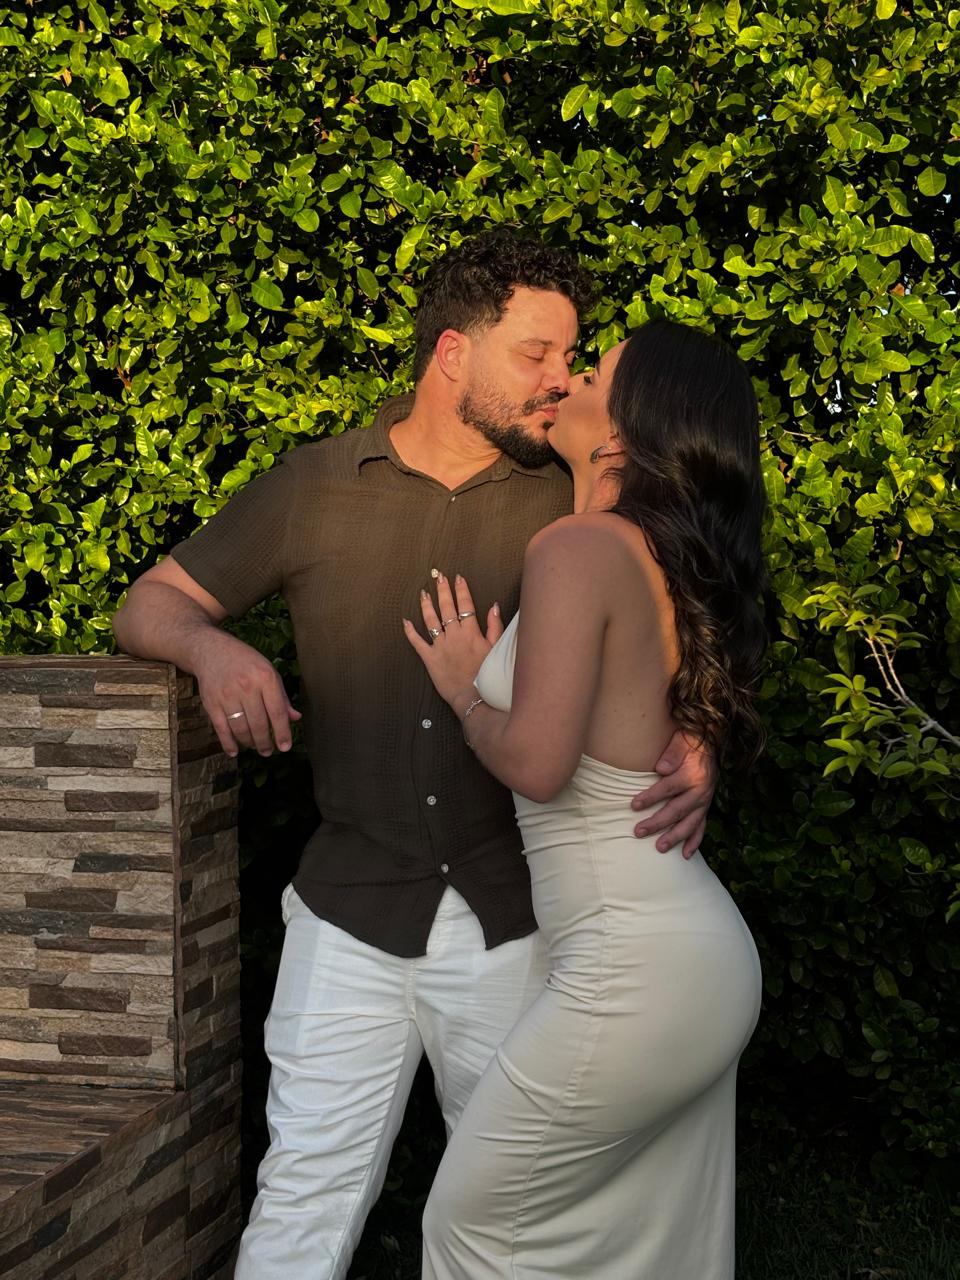
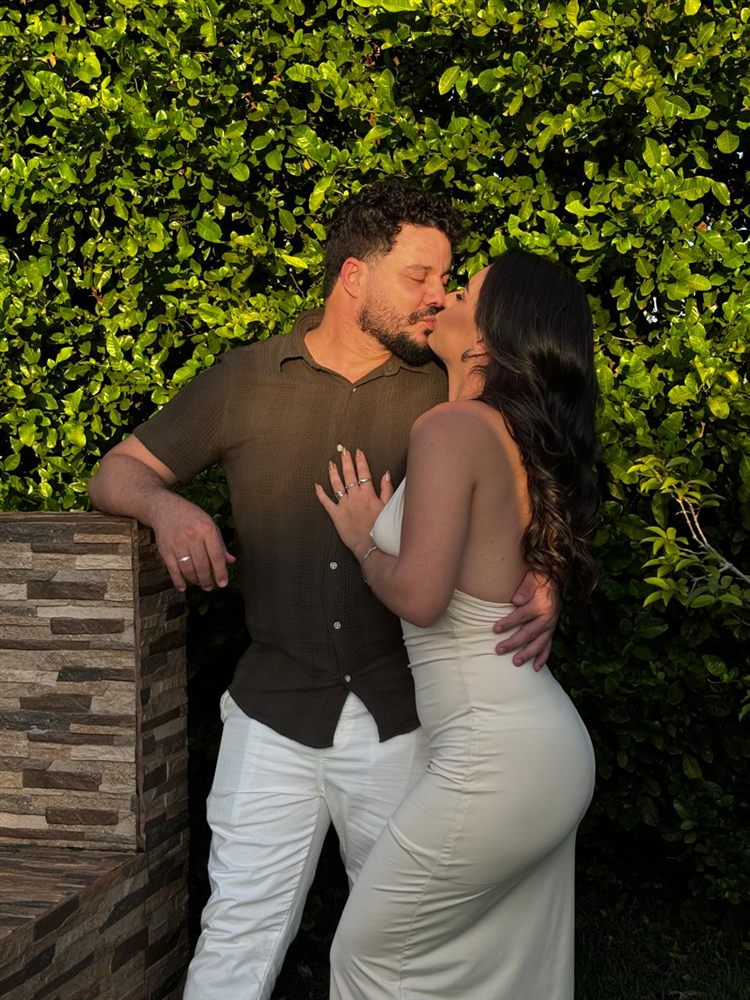
Performance: fotos otimizadas, lazy loading, preload none, nginx com gzip e cache
- Fotos reduzidas para max 1000px (~2x menores; pablo.jpg 391KB -> 43KB)
- 26 imagens com loading=lazy (so a foto do portao carrega de inicio)
- Audio preload=none: as musicas (14MB) so baixam quando tocam
- nginx.conf: gzip + cache de 30 dias para fotos/musicas

diff --git a/index.html b/index.html
@@ -259,7 +259,7 @@
 <div class="nebulosa neb2"></div>
 
 <!-- músicas: as que o Pablo criou contando a história (18/04/2026) -->
-<audio id="musica" src="musica/nossa-musica.mp3" preload="auto"></audio>
+<audio id="musica" src="musica/nossa-musica.mp3" preload="none"></audio>
 <div class="disco-dica" id="discoDica">toca as nossas músicas 🎵</div>
 <div class="nome-faixa" id="nomeFaixa"></div>
 <div class="btn-pular" id="btnPular" title="próxima música">⏭</div>
@@ -322,7 +322,7 @@
       <div class="arcano reveal">
         <div class="carta-tarot">
           <div class="num-romano">Arcano 0 · O Louco</div>
-          <img class="mini-arcano" src="fotos/arcanos/00-louco.jpg" alt="O Louco" title="O Louco — o salto de fé, o começo de toda jornada">
+          <img loading="lazy" decoding="async" class="mini-arcano"src="fotos/arcanos/00-louco.jpg" alt="O Louco" title="O Louco — o salto de fé, o começo de toda jornada">
           <h3>O Encontro</h3>
           <div class="data">Setembro de 2025 · um casamento</div>
           <p>Entre brindes e música, no meio da festa de outras pessoas, o destino resolveu escrever a nossa. Um olhar atravessou o salão — e alguma coisa, em silêncio, já sabia.</p>
@@ -333,7 +333,7 @@
       <div class="arcano reveal">
         <div class="carta-tarot">
           <div class="num-romano">Arcano I · O Mago</div>
-          <img class="mini-arcano" src="fotos/arcanos/01-mago.jpg" alt="O Mago" title="O Mago — a palavra que cria, o primeiro movimento">
+          <img loading="lazy" decoding="async" class="mini-arcano"src="fotos/arcanos/01-mago.jpg" alt="O Mago" title="O Mago — a palavra que cria, o primeiro movimento">
           <h3>A Primeira Mensagem</h3>
           <div class="data">28.09.2025 · 09:24</div>
           <p>Tudo começou do jeito mais você possível: um bom dia cheio de energia e uma cobrança de mergulho. 😂</p>
@@ -345,19 +345,19 @@
       <div class="arcano reveal">
         <div class="carta-tarot">
           <div class="num-romano">Arcano II · A Sacerdotisa</div>
-          <img class="mini-arcano" src="fotos/arcanos/02-sacerdotisa.jpg" alt="A Sacerdotisa" title="A Sacerdotisa — a intuição, a guardiã do invisível">
+          <img loading="lazy" decoding="async" class="mini-arcano"src="fotos/arcanos/02-sacerdotisa.jpg" alt="A Sacerdotisa" title="A Sacerdotisa — a intuição, a guardiã do invisível">
           <h3>A Leitura</h3>
           <div class="data">01.10.2025 · o tarô que mudou tudo</div>
           <p>Eu fui pedir uma consulta de tarô… e a taróloga levou meu coração de brinde. Você ainda quis a sinastria astrológica — como se o universo já não tivesse deixado tudo óbvio.</p>
           <div class="balao"><span class="quem">Jhulia</span>Quero seus dados pro Tarot. Mas também quero ver a sinastria astrológica rs 🔮<span class="hora">11:26</span></div>
-          <img class="foto" src="fotos/bruxos.jpg" alt="Pablo e Jhulia de bruxos" style="object-position:center 42%">
+          <img loading="lazy" decoding="async" class="foto"src="fotos/bruxos.jpg" alt="Pablo e Jhulia de bruxos" style="object-position:center 42%">
         </div>
       </div>
 
       <div class="arcano reveal">
         <div class="carta-tarot">
           <div class="num-romano">Arcano XVII · A Estrela</div>
-          <img class="mini-arcano" src="fotos/arcanos/17-estrela.jpg" alt="A Estrela" title="A Estrela — a esperança, o sonho que guia">
+          <img loading="lazy" decoding="async" class="mini-arcano"src="fotos/arcanos/17-estrela.jpg" alt="A Estrela" title="A Estrela — a esperança, o sonho que guia">
           <h3>O Beijo Imaginado</h3>
           <div class="data">02.10.2025</div>
           <p>Antes de qualquer beijo existir, ele já vivia na imaginação — e olha que nem a imaginação chegou perto do que foi de verdade.</p>
@@ -369,24 +369,24 @@
       <div class="arcano reveal">
         <div class="carta-tarot">
           <div class="num-romano">Arcano III · A Imperatriz</div>
-          <img class="mini-arcano" src="fotos/arcanos/03-imperatriz.jpg" alt="A Imperatriz" title="A Imperatriz — o prazer, a entrega, a abundância">
+          <img loading="lazy" decoding="async" class="mini-arcano"src="fotos/arcanos/03-imperatriz.jpg" alt="A Imperatriz" title="A Imperatriz — o prazer, a entrega, a abundância">
           <h3>A Magia</h3>
           <div class="data">19.10.2025 · a primeira vez juntos</div>
           <p>E quando finalmente aconteceu, foi você quem encontrou as palavras:</p>
           <div class="balao"><span class="quem">Jhulia</span>Ter você comigo aqui foi muito mais do que eu imaginei! Cada detalhe, cada sorriso, cada gesto seu… tudo foi mágico. Já me sinto sua… e quero que seja assim. ❤🔥<span class="hora">20:10</span></div>
-          <img class="foto" src="fotos/beijo.jpg" alt="Pablo e Jhulia se beijando" style="object-position:center 38%">
+          <img loading="lazy" decoding="async" class="foto"src="fotos/beijo.jpg" alt="Pablo e Jhulia se beijando" style="object-position:center 38%">
         </div>
       </div>
 
       <div class="arcano reveal">
         <div class="carta-tarot">
           <div class="num-romano">Arcano XIV · A Temperança</div>
-          <img class="mini-arcano" src="fotos/arcanos/14-temperanca.jpg" alt="A Temperança" title="A Temperança — o anjo da cura, o equilíbrio depois da tempestade">
+          <img loading="lazy" decoding="async" class="mini-arcano"src="fotos/arcanos/14-temperanca.jpg" alt="A Temperança" title="A Temperança — o anjo da cura, o equilíbrio depois da tempestade">
           <h3>O Renascimento</h3>
           <div class="data">Novembro de 2025 · Uberlândia</div>
           <p>A vida testou a gente cedo. E foi ali, nos dias mais difíceis, segurando a mão um do outro num corredor de hospital, que a gente descobriu do que esse amor era feito.</p>
           <div class="verso-musica">“Uberlândia nos viu renascer —<br>do caos, um amor pra florescer.”</div>
-          <img class="foto" src="fotos/nos-dois.jpg" alt="Pablo e Jhulia" style="object-position:center 72%">
+          <img loading="lazy" decoding="async" class="foto"src="fotos/nos-dois.jpg" alt="Pablo e Jhulia" style="object-position:center 72%">
           <button class="pill-musica" data-faixa="0">▶ a música que conta esse reencontro</button>
         </div>
       </div>
@@ -394,7 +394,7 @@
       <div class="arcano reveal">
         <div class="carta-tarot">
           <div class="num-romano">Arcano VI · Os Enamorados</div>
-          <img class="mini-arcano" src="fotos/arcanos/06-enamorados.jpg" alt="Os Enamorados" title="Os Enamorados — a escolha do coração, a união das almas">
+          <img loading="lazy" decoding="async" class="mini-arcano"src="fotos/arcanos/06-enamorados.jpg" alt="Os Enamorados" title="Os Enamorados — a escolha do coração, a união das almas">
           <h3>O Primeiro “Te Amo”</h3>
           <div class="data">11.11.2025 · 00:22</div>
           <p>Até o relógio conspirou: o portal 11/11, num horário terminando em 22 — os nossos números, no nosso momento.</p>
@@ -406,12 +406,12 @@
       <div class="arcano reveal">
         <div class="carta-tarot">
           <div class="num-romano">Dois de Copas · A União</div>
-          <img class="mini-arcano" src="fotos/arcanos/copas-02.jpg" alt="Dois de Copas" title="Dois de Copas — a carta do amor recíproco, um brinde de duas almas">
+          <img loading="lazy" decoding="async" class="mini-arcano"src="fotos/arcanos/copas-02.jpg" alt="Dois de Copas" title="Dois de Copas — a carta do amor recíproco, um brinde de duas almas">
           <h3>Meu &amp; Minha</h3>
           <div class="data">15.11.2025 · 22:15</div>
           <p>Uma foto sua, uma foto minha, duas palavras — e o contrato mais bonito do mundo estava assinado.</p>
-          <div class="balao"><span class="quem">Jhulia</span><img class="foto-balao" src="fotos/pablo.jpg" alt="Pablo" style="object-position:center 35%">Meu.<span class="hora">22:12</span></div>
-          <div class="balao eu"><span class="quem">Pablo</span><img class="foto-balao" src="fotos/jhulia.jpg" alt="Jhulia" style="object-position:center 20%">Minha.<span class="hora">22:13</span></div>
+          <div class="balao"><span class="quem">Jhulia</span><img loading="lazy" decoding="async" class="foto-balao"src="fotos/pablo.jpg" alt="Pablo" style="object-position:center 35%">Meu.<span class="hora">22:12</span></div>
+          <div class="balao eu"><span class="quem">Pablo</span><img loading="lazy" decoding="async" class="foto-balao"src="fotos/jhulia.jpg" alt="Jhulia" style="object-position:center 20%">Minha.<span class="hora">22:13</span></div>
           <div class="balao"><span class="quem">Jhulia</span>Sou sua. Toda sua.<span class="hora">22:16</span></div>
           <div class="balao eu"><span class="quem">Pablo</span>Eu escolhi você e quero só você… te amo linda, e te quero mais que tudo 😍❤🔥<span class="hora">22:19</span></div>
         </div>
@@ -420,7 +420,7 @@
       <div class="arcano reveal">
         <div class="carta-tarot">
           <div class="num-romano">Dez de Copas · O Lar</div>
-          <img class="mini-arcano" src="fotos/arcanos/copas-10.jpg" alt="Dez de Copas" title="Dez de Copas — a felicidade do lar, o arco-íris da família">
+          <img loading="lazy" decoding="async" class="mini-arcano"src="fotos/arcanos/copas-10.jpg" alt="Dez de Copas" title="Dez de Copas — a felicidade do lar, o arco-íris da família">
           <h3>Nossa Casa</h3>
           <div class="data">2026 · a vida a dois</div>
           <p>De mensagens de madrugada a acordar do seu lado todos os dias. Hoje existe um lugar no mundo que é nosso — com cheiro de café, energia de incenso, o Tesla mordendo nossas canelas e o Lion reinando no sofá. 🐾</p>
@@ -431,7 +431,7 @@
       <div class="arcano reveal">
         <div class="carta-tarot">
           <div class="num-romano">Arcano VIII · A Força</div>
-          <img class="mini-arcano" src="fotos/arcanos/08-forca.jpg" alt="A Força" title="A Força — a doçura que doma feras (e tem um leão na carta 🦁)">
+          <img loading="lazy" decoding="async" class="mini-arcano"src="fotos/arcanos/08-forca.jpg" alt="A Força" title="A Força — a doçura que doma feras (e tem um leão na carta 🦁)">
           <h3>Tesla &amp; Lion</h3>
           <div class="data">02.04.2026 · 19h · a família cresceu</div>
           <p>Tudo começou com um ultimato em dezembro — e com a melhor resposta que eu já dei na vida:</p>
@@ -439,14 +439,14 @@
           <div class="balao eu"><span class="quem">Pablo</span>O gato é nosso.<span class="hora">16.12.2025</span></div>
           <p style="margin-top:14px">Em abril eles chegaram de Uberlândia: o Tesla, cinzinha, mordedor oficial de canelas — e o Lion, laranjinha, o leão da casa. Não é coincidência a carta deste capítulo ser A Força, a única do tarô com um leão dourado nela. 🦁</p>
           <div class="balao"><span class="quem">Jhulia</span>Eles são yin e yang 🖤🤍<span class="hora">17.04.2026</span></div>
-          <img class="foto" src="fotos/yin-yang.jpg" alt="Tesla e Lion dormindo em yin-yang">
+          <img loading="lazy" decoding="async" class="foto"src="fotos/yin-yang.jpg" alt="Tesla e Lion dormindo em yin-yang">
         </div>
       </div>
 
       <div class="arcano reveal">
         <div class="carta-tarot">
           <div class="num-romano">Arcano XIX · O Sol</div>
-          <img class="mini-arcano" src="fotos/arcanos/19-sol.jpg" alt="O Sol" title="O Sol — a alegria que canta, a luz que celebra">
+          <img loading="lazy" decoding="async" class="mini-arcano"src="fotos/arcanos/19-sol.jpg" alt="O Sol" title="O Sol — a alegria que canta, a luz que celebra">
           <h3>A Música</h3>
           <div class="data">18.04.2026</div>
           <p>Teve um dia em que a nossa história virou canção. Eu mandei e só pedi uma coisa:</p>
@@ -461,11 +461,11 @@
       <div class="arcano reveal">
         <div class="carta-tarot">
           <div class="num-romano">Arcano X · A Roda da Fortuna</div>
-          <img class="mini-arcano" src="fotos/arcanos/10-roda.jpg" alt="A Roda da Fortuna" title="A Roda da Fortuna — o destino que gira sempre a nosso favor">
+          <img loading="lazy" decoding="async" class="mini-arcano"src="fotos/arcanos/10-roda.jpg" alt="A Roda da Fortuna" title="A Roda da Fortuna — o destino que gira sempre a nosso favor">
           <h3>Hoje — e Todos os Amanhãs</h3>
           <div class="data">12.06.2026 · Dia dos Namorados</div>
           <p>A roda girou e nos trouxe até aqui: 257 dias, 19.569 mensagens, uma casa, uma música, um amor. E o melhor de tudo? A leitura diz que isso é só o começo.</p>
-          <img class="foto" src="fotos/horizonte.jpg" alt="Pablo e Jhulia olhando a cidade" style="object-position:center 58%">
+          <img loading="lazy" decoding="async" class="foto"src="fotos/horizonte.jpg" alt="Pablo e Jhulia olhando a cidade" style="object-position:center 58%">
           <div class="verso-musica">“E quando Jhulia tirou o tarô pra mim,<br>o universo sorriu — eu disse <b>sim</b>.”</div>
         </div>
       </div>
@@ -516,13 +516,13 @@
       <div class="filete"></div>
     </div>
     <div class="polaroids reveal">
-      <div class="polaroid"><img src="fotos/selfie.jpg" alt="Nós dois" style="object-position:center 38%"><div class="legenda">nós, sempre nós</div></div>
-      <div class="polaroid"><img src="fotos/jardim.jpg" alt="Beijo no jardim" style="object-position:center 30%"><div class="legenda">dourados de sol</div></div>
-      <div class="polaroid"><img src="fotos/bruxos.jpg" alt="Nós de bruxos" style="object-position:center 42%"><div class="legenda">presos por amor 🔮</div></div>
-      <div class="polaroid"><img src="fotos/sol.jpg" alt="Selfie no parque" style="object-position:center 35%"><div class="legenda">nosso sol</div></div>
-      <div class="polaroid"><img src="fotos/bebes.jpg" alt="Tesla e Lion" style="object-position:center 45%"><div class="legenda">nossos bebês 🐾</div></div>
-      <div class="polaroid"><img src="fotos/jhulia.jpg" alt="Jhulia"><div class="legenda">minha bruxa</div></div>
-      <div class="polaroid"><img src="fotos/pablo.jpg" alt="Pablo"><div class="legenda">teu, só teu</div></div>
+      <div class="polaroid"><img loading="lazy" decoding="async" src="fotos/selfie.jpg" alt="Nós dois" style="object-position:center 38%"><div class="legenda">nós, sempre nós</div></div>
+      <div class="polaroid"><img loading="lazy" decoding="async" src="fotos/jardim.jpg" alt="Beijo no jardim" style="object-position:center 30%"><div class="legenda">dourados de sol</div></div>
+      <div class="polaroid"><img loading="lazy" decoding="async" src="fotos/bruxos.jpg" alt="Nós de bruxos" style="object-position:center 42%"><div class="legenda">presos por amor 🔮</div></div>
+      <div class="polaroid"><img loading="lazy" decoding="async" src="fotos/sol.jpg" alt="Selfie no parque" style="object-position:center 35%"><div class="legenda">nosso sol</div></div>
+      <div class="polaroid"><img loading="lazy" decoding="async" src="fotos/bebes.jpg" alt="Tesla e Lion" style="object-position:center 45%"><div class="legenda">nossos bebês 🐾</div></div>
+      <div class="polaroid"><img loading="lazy" decoding="async" src="fotos/jhulia.jpg" alt="Jhulia"><div class="legenda">minha bruxa</div></div>
+      <div class="polaroid"><img loading="lazy" decoding="async" src="fotos/pablo.jpg" alt="Pablo"><div class="legenda">teu, só teu</div></div>
     </div>
   </section>
 
